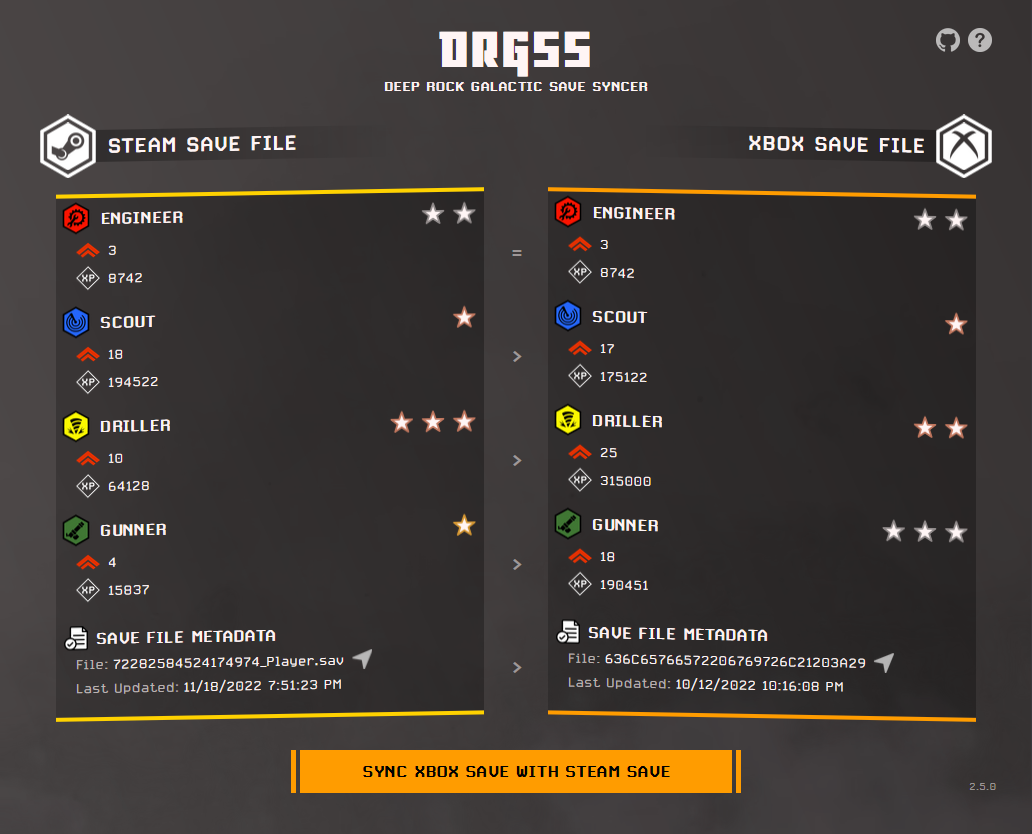
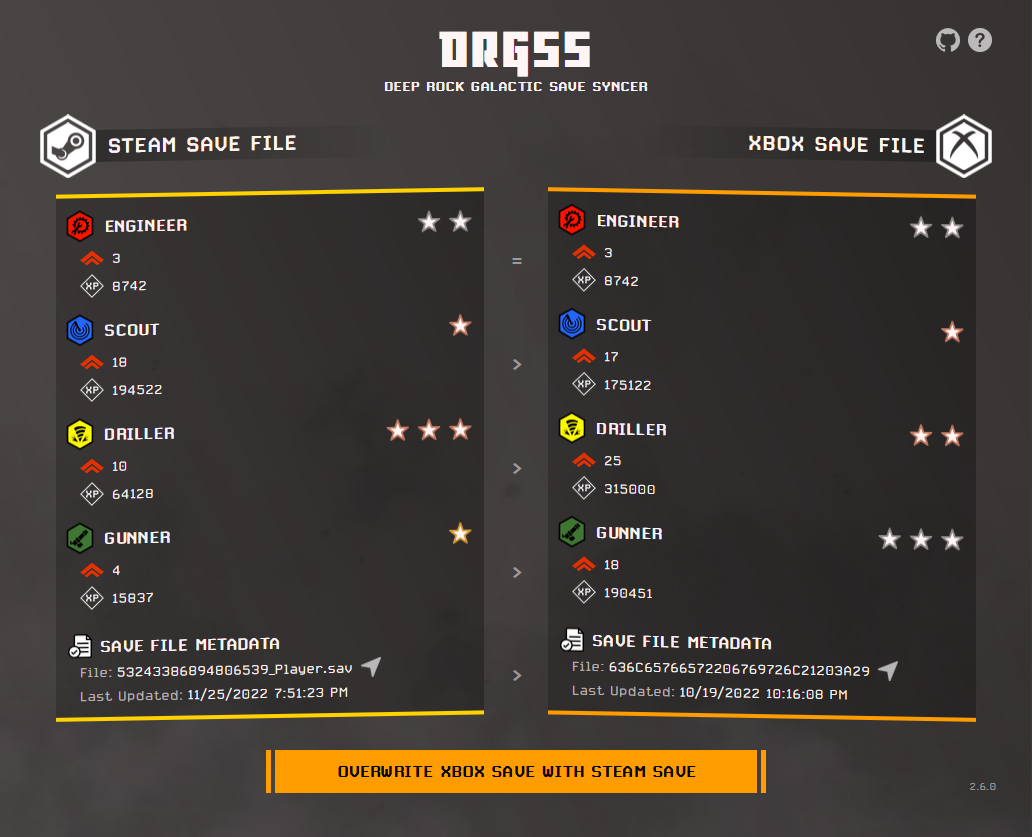
Updated documentation and images for impending v2.6.0 release.

diff --git a/README.md b/README.md
@@ -28,15 +28,11 @@ Granular save file comparison lets you see what's changed at a glance:
 > Notice that the Gunner on the left has been promoted once to Gold I, while the one on the right is still Silver III. Since the left Gunner has more promotions, it means that the left save file has likely been played more recently. The `>` operator in the middle confirms this.
 
 ### One-click operation by default
-The big button at the bottom lets you know what's going to happen:
+The big button at the bottom lets you know what's going to happen when you click on it:
 
 <p align="center"><img src="https://raw.githubusercontent.com/naschorr/deep-rock-galactic-save-syncer/main/resources/images/example_button_steam_xbox.png" /></p>
 
-> Clicking this will overwrite your Steam save file with your Xbox save file
-
 <p align="center"><img src="https://raw.githubusercontent.com/naschorr/deep-rock-galactic-save-syncer/main/resources/images/example_button_xbox_steam.png" /></p>
-
-> Clicking this will overwrite your Xbox save file with your Steam save file
 
 ### Override the defaults and choose the save you want to keep
 Don't agree with DRGSS' choice? Click the save you'd like to keep to override it!
@@ -45,7 +41,7 @@ Don't agree with DRGSS' choice? Click the save you'd like to keep to override it
 Access the save files yourself with a single click! Each save file has a <img src="https://raw.githubusercontent.com/naschorr/deep-rock-galactic-save-syncer/main/resources/icons_high_contrast/arrow_icon.png" width="24" /> button that'll open it for you.
 
 ### Save files are backed up during the sync operation
-Chose the wrong file accidentally? Just delete the invalid one, and rename the `*.backup` file back to the original name.
+Chose the wrong file accidentally? Just delete the invalid one, and rename the `*.backup` file back to the original name. Alternatively, check out the [wiki](https://github.com/naschorr/deep-rock-galactic-save-syncer/wiki/Troubleshooting#restoring-drgss-backups) page that goes over restoring backups.
 
 ### Refresh the save files
 Has something changed? Hit the refresh button to update your save files before syncing.
@@ -61,8 +57,6 @@ DRGSS won't try to interfere with a save file while it's being written to by the
 If you've made progress with both save files separately, DRGSS will alert you of this via the button at the bottom:
 
 <p align="center"><img src="https://raw.githubusercontent.com/naschorr/deep-rock-galactic-save-syncer/main/resources/images/example_button_divergent.png" /></p>
-
-> The button is disabled, because DRGSS isn't sure of which save file should be overwritten
 
 To fix this, simply pick a save file to keep, and the button will become enabled again.
 
